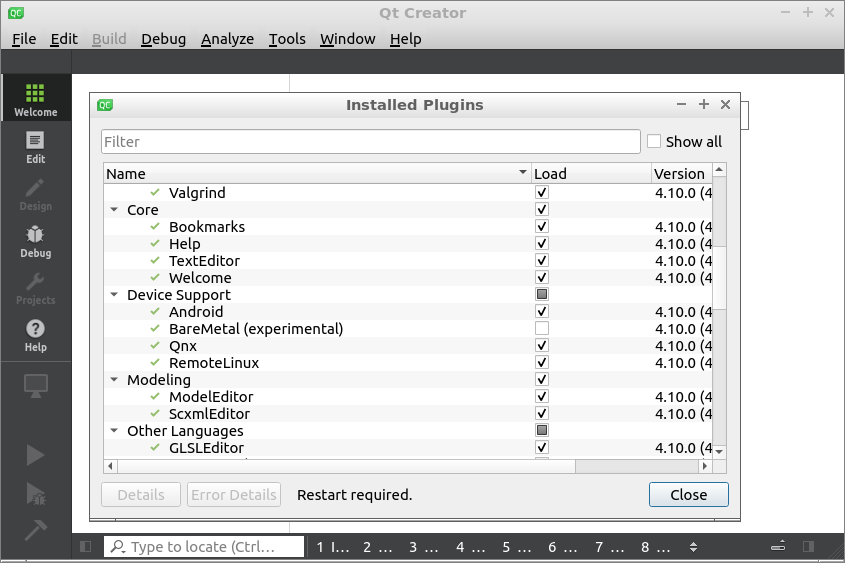
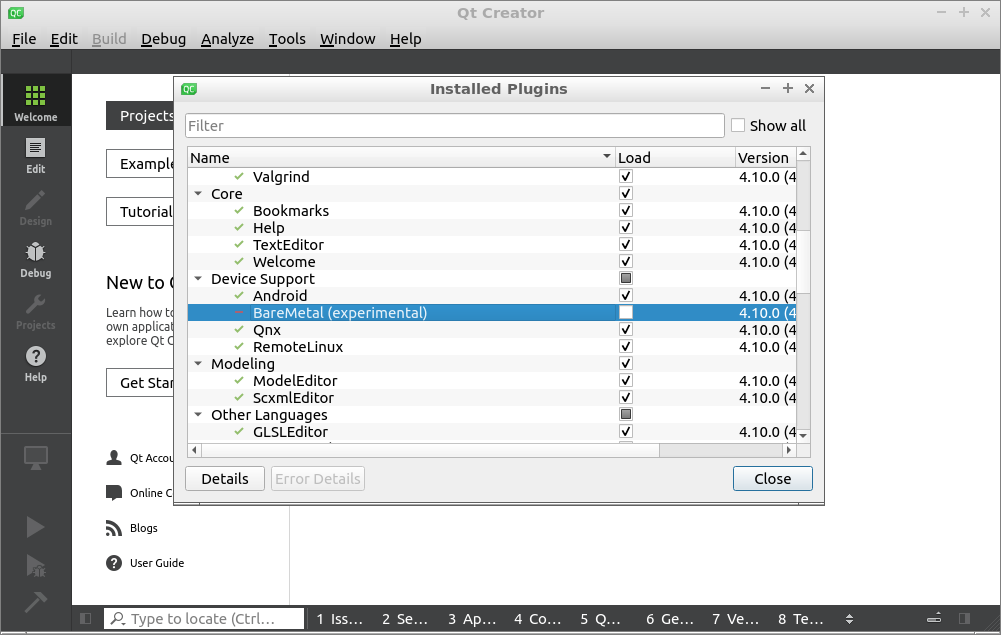
qt и stm32

Changed region(s): [[0.0, 0.0, 1.0, 0.9964], [0.4308, 0.0, 0.5538, 0.0302], [0.9538, 0.0, 0.9846, 0.0302]]

diff --git a/_posts/2019-10-09-stm32-with-qt.md b/_posts/2019-10-09-stm32-with-qt.md
@@ -15,14 +15,14 @@ image_path: /assets/images/2019-10-09-stm32-with-qt
 (например, [STM32CubeIDE](https://www.st.com/content/st_com/en/products/development-tools/software-development-tools/stm32-software-development-tools/stm32-ides/stm32cubeide.html){:target="\_blank"}),
 так и те, использование которых больше не рекомендуется.
 
-Стоит отметить, что там есть упоминание о Qt Development Tools, но только для STM32MP1.
+Стоит отметить, что там есть упоминание о Qt Development Tools, но только для STM32MP1 и для разработки HMI.
 >  Tools to develop, debug and deploy HMI on embedded platforms.
 
 В этой статье я покажу, как настройть Qt Creator для написания и отладки прошивок STM32.
 
 ---
 
-### Теория
+### Немного теория
 
 ```mermaid
 graph LR;
@@ -31,11 +31,12 @@ graph LR;
   gdb[GDB]
   openocd[OpenOCD]
   stm32[STM32]
+  flasher[St-Link V2]
   stlink[ST-LINK Utility]
 
   subgraph Qt Creator
     source --> gcc
-    gcc --> gdb
+    gcc -- *.elf<br/>*.hex --> gdb
   end
 
   subgraph Middlewares
@@ -44,8 +45,9 @@ graph LR;
   end
 
   subgraph Hardware
-    openocd --> stm32
-    stlink --> stm32
+    openocd --> flasher
+    stlink --> flasher
+    flasher -- SWD_--> stm32
   end
 
   style source fill:#ccffcc,stroke:#33cc33
@@ -55,6 +57,64 @@ graph LR;
   style openocd fill:#ccccff,stroke:#3333cc
   style stlink fill:#ccccff,stroke:#3333cc
 
+  style flasher fill:#ffcccc,stroke:#cc3333
   style stm32 fill:#ffcccc,stroke:#cc3333
 
 ```
+
+Рабочий процесс выглядит так: исходные коды собираются с помощью gcc (и не просто gcc, а спецверсией для микроконтроллеров `arm-none-eabi-gcc`) в файл прошивки с расширением `.elf` или `.hex`. А затем `arm-none-eabi-gdb` осуществляет отладку прошивки в микроконтроллере с помощью OpenOCD или St-Link Utility.
+
+### Настройка по шагам
+
+  1. Установить плагин BareMetal в `Help → About Plugins → Device Support → BareMetal (Experimental)` и перезагрузить Qt Creator, чтобы плагин нормально заработал.
+  2. В меню `Tools → Options → Devices → Bare Metal` настроить параметры запуска ST-Link Utility.
+ ```
+ Startup Mode → Startup in TCP/IP Mode
+ Host → localhost, 4242
+ Executable file → /где/находится/st-util
+ Verbosity level → 0
+ Version → ST-LINK/V2
+ Init commands → load
+ ```
+  3. Во вкладке `Devices` нажать на `Add...`, выбрать `Bare Metal Device` и запустить мастер настройки кнопкой `Start Wizard`.
+  4. В появившемся окне можно задать любое имя, а в поле `GDB server provider` выбрать `ST-LINK Utility`, который был настроен на прошлом шаге.
+ 5. Перейти в меню `Tools → Options → Kits → Compilers` и добавить компиляторы C/C++ из arm-none-eabi-gcc.
+  * Выбрать `Add → GCC → C`. И указать путь к компилятору C.
+  * Выбрать `Add → GCC → C++`. И указать путь к компилятору C++.
+ 6. Во вкладке `Debuggers` нажать на `Add` и добавить `arm-none-eabi-gdb-py`. `Необходимо добавить именно arm-none-eabi-gdb-py, поскольку Qt Creator требуется отладчик с поддержкой python.`{:.info}
+ 7. Вернуться во вкладку `Kits` и нажать на `Add`.  
+```
+Device type → Bare Metal Device
+Device → stm32 (Из пункта 4)
+Compiler C → arm-none-eabi-gcc (Из пункта 5)
+Compiler C++ → arm-none-eabi-g++ (Из пункта 5)
+Debugger → arm-none-eabi-gdb-py (Из пункта 6)
+Qt version → None
+```
+
+
+<div class="swiper my-3 swiper-demo swiper-demo--image swiper-demo--3">
+  <div class="swiper__wrapper">
+    <div class="swiper__slide"><img class="lightbox-ignore" src="{{page.image_path}}/001.png"/></div>
+    <div class="swiper__slide"><img class="lightbox-ignore" src="{{page.image_path}}/002.png"/></div>
+    <div class="swiper__slide"><img class="lightbox-ignore" src="{{page.image_path}}/003.png"/></div>
+    <div class="swiper__slide"><img class="lightbox-ignore" src="{{page.image_path}}/004.png"/></div>
+    <div class="swiper__slide"><img class="lightbox-ignore" src="{{page.image_path}}/005.png"/></div>
+    <div class="swiper__slide"><img class="lightbox-ignore" src="{{page.image_path}}/006.png"/></div>
+    <div class="swiper__slide"><img class="lightbox-ignore" src="{{page.image_path}}/007.png"/></div>
+  </div>
+  <div class="swiper__button swiper__button--prev fas fa-chevron-left"></div>
+  <div class="swiper__button swiper__button--next fas fa-chevron-right"></div>
+</div>
+
+<script>
+  {%- include scripts/lib/swiper.js -%}
+  var SOURCES = window.TEXT_VARIABLES.sources;
+  window.Lazyload.js(SOURCES.jquery, function() {
+    $('.swiper-demo--0').swiper();
+    $('.swiper-demo--1').swiper();
+    $('.swiper-demo--2').swiper();
+    $('.swiper-demo--3').swiper();
+    $('.swiper-demo--4').swiper({ animation: false });
+  });
+</script>
